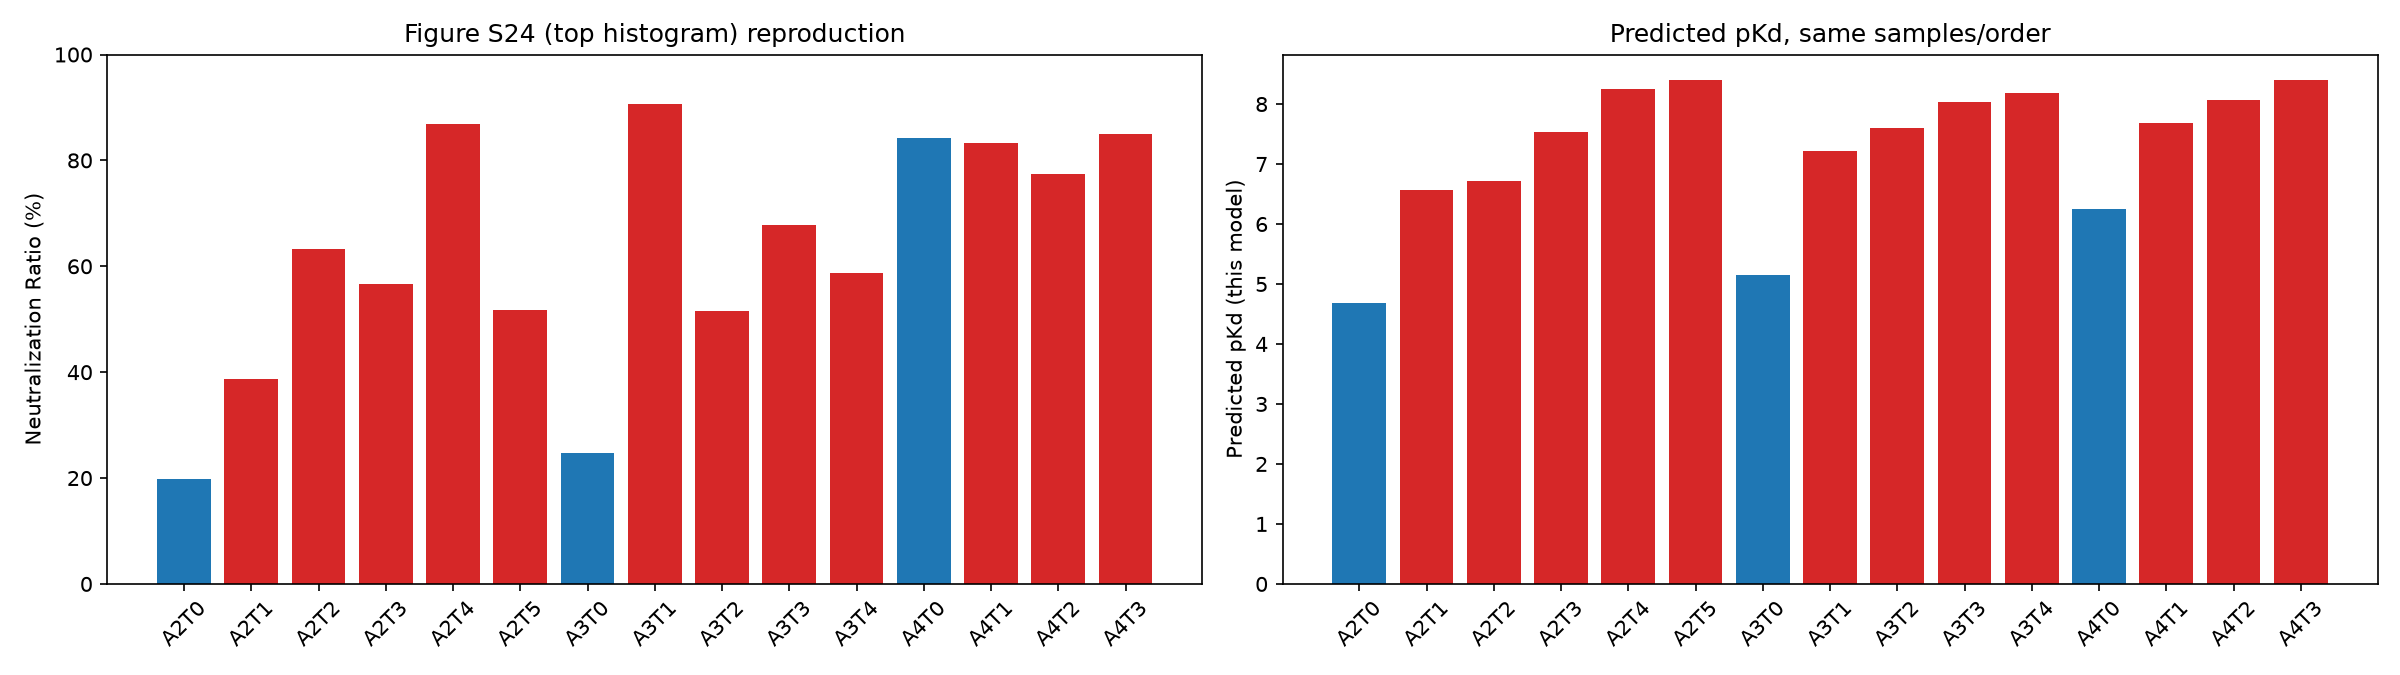
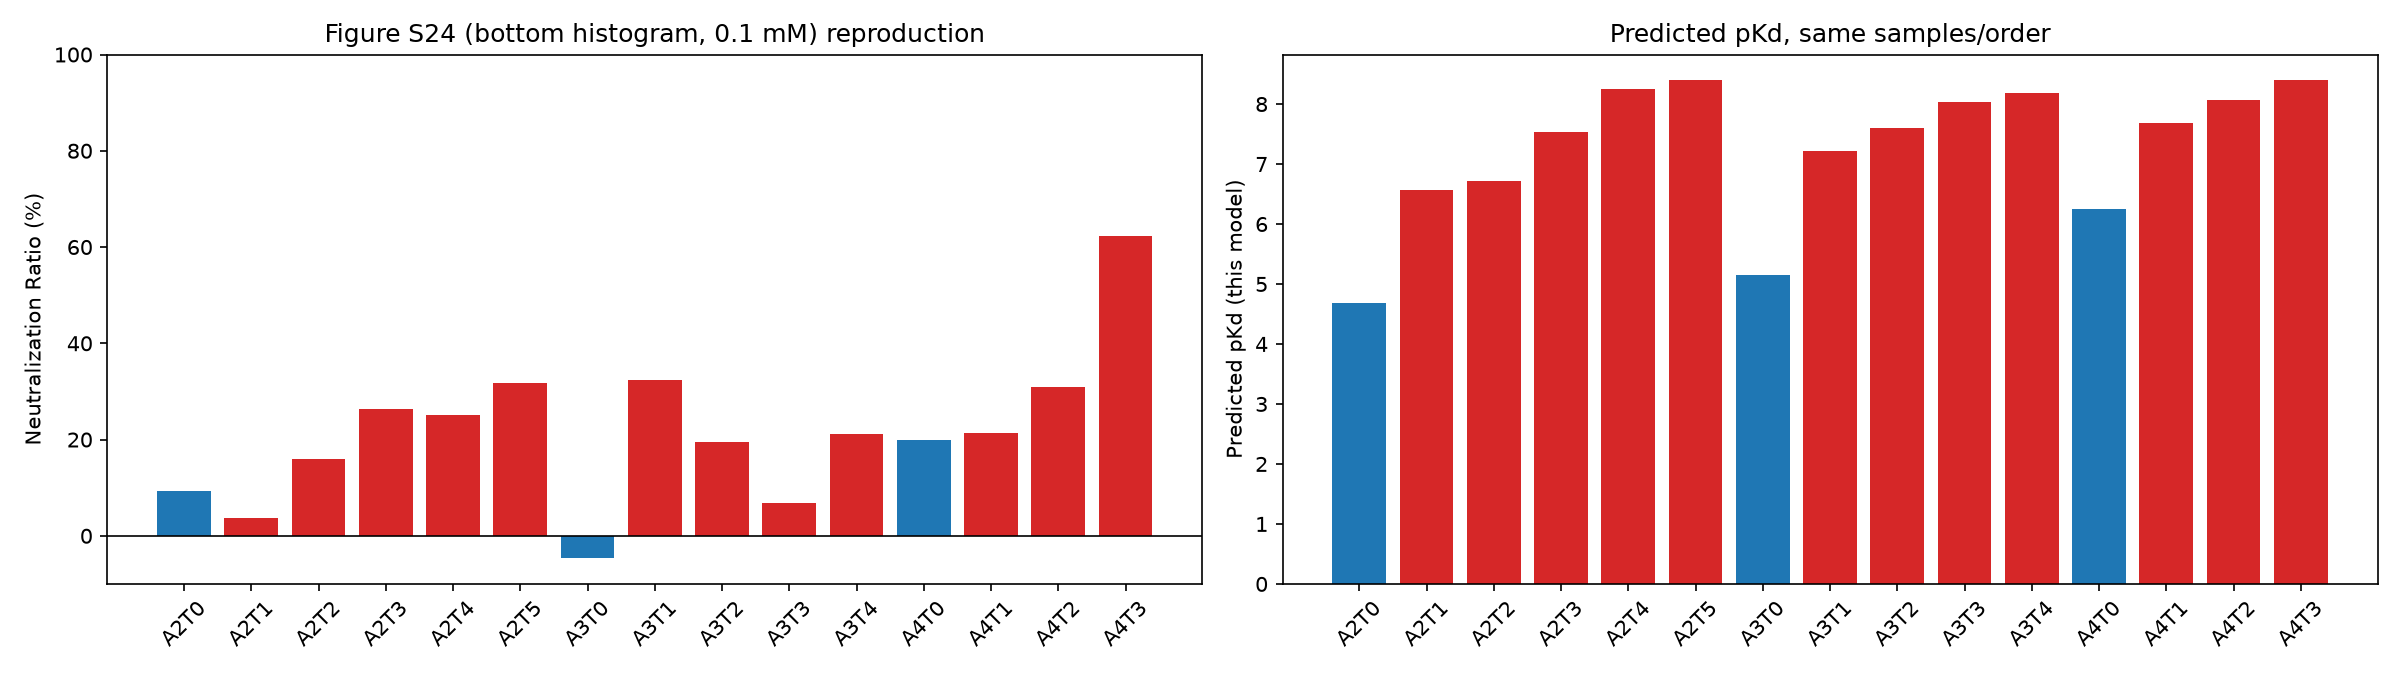
Switch Hoshino_polymer external validation to Figure S24's bottom panel (0.1 mM)
Neutralization-ratio reference values were pixel-extracted from the source
paper's supplementary PDF Figure S24, bottom panel (ligand concentration
0.1 mM), replacing the previously used top panel (1.0 mM). Updated
correlation numbers, figure, and README accordingly.

diff --git a/scripts/correlate_hoshino_t5protchem_raw_uniqueonly_quadsplice.py b/scripts/correlate_hoshino_t5protchem_raw_uniqueonly_quadsplice.py
@@ -4,10 +4,13 @@ from scipy import stats
 from scipy.stats import spearmanr
 
 NEUTRALIZATION = {
-    "A2T0": 19.9, "A2T1": 38.8, "A2T2": 63.3, "A2T3": 56.6, "A2T4": 86.9, "A2T5": 51.7,
-    "A3T0": 24.8, "A3T1": 90.6, "A3T2": 51.5, "A3T3": 67.8, "A3T4": 58.7,
-    "A4T0": 84.3, "A4T1": 83.3, "A4T2": 77.5, "A4T3": 85.0,
+    "A2T0": 9.4, "A2T1": 3.6, "A2T2": 16.0, "A2T3": 26.4, "A2T4": 25.2, "A2T5": 31.8,
+    "A3T0": -4.7, "A3T1": 32.4, "A3T2": 19.4, "A3T3": 6.8, "A3T4": 21.1,
+    "A4T0": 20.0, "A4T1": 21.3, "A4T2": 30.9, "A4T3": 62.3,
 }
+# Values are from Figure S24's BOTTOM panel (ligand concentration 0.1 mM),
+# pixel-extracted from the source PDF (bar-color detection + y-axis
+# box-border calibration), not the top (1.0 mM) panel used previously.
 
 CSV = "/home/tomita/Hoshino_polymer/predicted_pKa_KanM_T5ProtChem_raw_uniqueonly_quadsplice.csv"
 PRED_COL = "predicted_pKd_T5ProtChem_raw_uniqueonly_quadsplice"
@@ -35,11 +38,29 @@ def pearsonr_perm(x, y):
     return res.statistic, res.pvalue
 
 
+def spearmanr_perm(x, y):
+    """Spearman rho with a permutation-test p-value, computed manually since
+    scipy.stats.spearmanr has no `method=PermutationMethod` option (unlike
+    pearsonr) -- same null (independence, via shuffling) and same rigor as
+    pearsonr_perm above, for consistency."""
+    rng = np.random.default_rng(PERM_SEED)
+    rho_obs = spearmanr(x, y).statistic
+    y_arr = np.asarray(y)
+    count = 0
+    for _ in range(N_RESAMPLES):
+        y_perm = rng.permutation(y_arr)
+        rho_perm = spearmanr(x, y_perm).statistic
+        if abs(rho_perm) >= abs(rho_obs):
+            count += 1
+    p = (count + 1) / (N_RESAMPLES + 1)
+    return rho_obs, p
+
+
 r_pred, p_pred = pearsonr_perm(sub[PRED_COL], sub["neutralization"])
-rho_pred, p_rho_pred = spearmanr(sub[PRED_COL], sub["neutralization"])
+rho_pred, p_rho_pred = spearmanr_perm(sub[PRED_COL], sub["neutralization"])
 r_ref, p_ref = pearsonr_perm(sub["pKd"], sub["neutralization"])
 
 print(f"predicted_pKd vs neutralization: pearson r={r_pred:.4f} (permutation p={p_pred:.5f}), "
-     f"spearman rho={rho_pred:.4f} (p={p_rho_pred:.4f}, asymptotic -- scipy has no permutation option for spearmanr)")
+     f"spearman rho={rho_pred:.4f} (permutation p={p_rho_pred:.5f})")
 print(f"reference pKd vs neutralization: pearson r={r_ref:.4f} (permutation p={p_ref:.5f})")
 print(sub[["label", "pKd", PRED_COL, "neutralization"]].to_string(index=False))

diff --git a/scripts/plot_hoshino_figures.py b/scripts/plot_hoshino_figures.py
@@ -1,8 +1,11 @@
 """
 Two side-by-side bar plot panels (same figure), sharing the same x-axis
 (A{n}T{m} sample labels, in the same order) so they can be visually compared:
-  1. The Figure S24 hemolysis neutralization ratio (pixel-extracted from the
-     source PDF earlier in this project -- see conversation).
+  1. The Figure S24 hemolysis neutralization ratio -- BOTTOM panel (ligand
+     concentration 0.1 mM, the lowest of the figure's three concentration
+     panels), pixel-extracted from the source PDF (anie201910558-sup-0001-
+     misc_information.pdf, page 25) via bar-color pixel detection + y-axis
+     box-border calibration (see conversation).
   2. This repo's model's predicted pKd
      (results/predicted_pKa_KanM_T5ProtChem_raw_uniqueonly_quadsplice.csv).
 
@@ -17,9 +20,9 @@ import matplotlib.pyplot as plt
 import pandas as pd
 
 NEUTRALIZATION = {
-    "A2T0": 19.9, "A2T1": 38.8, "A2T2": 63.3, "A2T3": 56.6, "A2T4": 86.9, "A2T5": 51.7,
-    "A3T0": 24.8, "A3T1": 90.6, "A3T2": 51.5, "A3T3": 67.8, "A3T4": 58.7,
-    "A4T0": 84.3, "A4T1": 83.3, "A4T2": 77.5, "A4T3": 85.0,
+    "A2T0": 9.4, "A2T1": 3.6, "A2T2": 16.0, "A2T3": 26.4, "A2T4": 25.2, "A2T5": 31.8,
+    "A3T0": -4.7, "A3T1": 32.4, "A3T2": 19.4, "A3T3": 6.8, "A3T4": 21.1,
+    "A4T0": 20.0, "A4T1": 21.3, "A4T2": 30.9, "A4T3": 62.3,
 }
 LABEL_ORDER = ["A2T0", "A2T1", "A2T2", "A2T3", "A2T4", "A2T5",
               "A3T0", "A3T1", "A3T2", "A3T3", "A3T4",
@@ -42,8 +45,9 @@ fig, (ax1, ax2) = plt.subplots(1, 2, figsize=(16, 4.5))
 
 ax1.bar(LABEL_ORDER, neut_values, color=colors)
 ax1.set_ylabel("Neutralization Ratio (%)")
-ax1.set_ylim(0, 100)
-ax1.set_title("Figure S24 (top histogram) reproduction")
+ax1.set_ylim(-10, 100)
+ax1.axhline(0, color="black", linewidth=0.8)
+ax1.set_title("Figure S24 (bottom histogram, 0.1 mM) reproduction")
 ax1.tick_params(axis="x", rotation=45)
 
 ax2.bar(LABEL_ORDER, pred_values, color=colors)

diff --git a/README.md b/README.md
@@ -79,17 +79,21 @@ Predictions for an independent, out-of-domain polymer-peptide dataset
 in `results/predicted_pKa_KanM_T5ProtChem_raw_uniqueonly_quadsplice.csv`),
 correlated against an experimentally measured neutralization-ratio readout
 for the same pairs (`scripts/correlate_hoshino_t5protchem_raw_uniqueonly_quadsplice.py`).
-p-value is from a PERMUTATION test (99999 resamples, shuffling one variable
-against the other to build the null distribution of r under independence)
-rather than the parametric t-distribution approximation, since n=15 is too
-small for the bivariate-normality assumption behind the parametric p-value
-to be reliable. Permutation testing was chosen over a naive bootstrap
-percentile p-value, which doesn't properly enforce the null hypothesis and
-is unstable at this sample size (see conversation):
+The neutralization-ratio values are from the **bottom panel (ligand
+concentration 0.1 mM)** of the source paper's Figure S24, pixel-extracted
+from the supplementary PDF (bar-color pixel detection + y-axis box-border
+calibration). p-values are from PERMUTATION tests (99999 resamples,
+shuffling one variable against the other to build the null distribution
+under independence) rather than the parametric/asymptotic approximations,
+since n=15 is too small for the assumptions behind those to be reliable.
+Permutation testing was chosen over a naive bootstrap percentile p-value,
+which doesn't properly enforce the null hypothesis and is unstable at this
+sample size (see conversation):
 
-| | Pearson r | p (permutation) |
+| | r / rho | p (permutation) |
 |---|---|---|
-| vs. neutralization ratio (n=15) | 0.643 | 0.0158 |
+| Pearson r vs. neutralization ratio (n=15) | 0.634 | 0.0042 |
+| Spearman rho vs. neutralization ratio (n=15) | 0.661 | 0.0085 |
 
 ![Neutralization ratio vs. predicted pKd](results/neutralization_vs_predicted.png)
 
